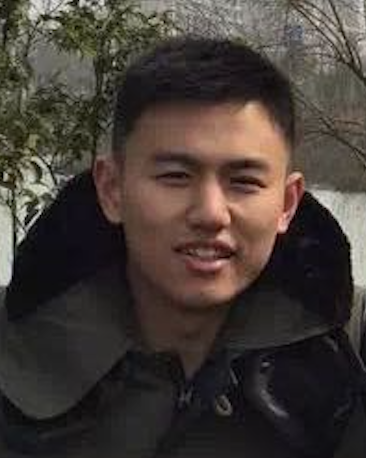
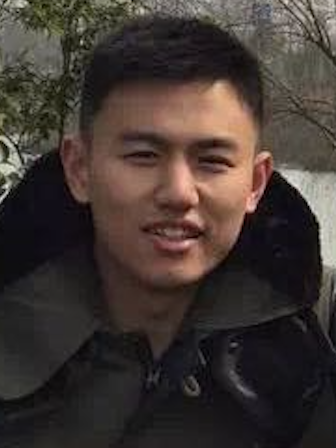
1

diff --git a/index.html b/index.html
@@ -99,7 +99,7 @@ h6 {
 
 
 <p>
-<img src="./background/paper_pic.png" width="210" height="265" align="left" hspace="8"/>
+<img src="./background/paper_pic.png" width="215" height="265" align="left" hspace="8"/>
 I'm a second-year Ph.D. candidate in the <I>Information and Decision Systems</I> track under the advisement of <a href="https://www.seas.upenn.edu/directory/profile.php?ID=248" style="text-decoration:none"><font color="#006CFF">Shirin Saeedi-Bidokhti</font></a> at the University of Pennsylvania in the <a href="https://www.ese.upenn.edu/" style="text-decoration:none"><font color="#006CFF">Department of Electrical and Systems Engineering</font></a>. I've received a B.Sc degree in <I>Mathematics and Statistics</I> from Central South University in 2015, and an M.A. degree in <I>Applied Mathematics and Computational Science</I> from University of Pennsylvania in 2018. <br/></br>
 My <a href="./background/cv_cxr.pdf" style="text-decoration:none"><font color="#006CFF">CV</font></a> is here.<br/><br/>
 Email: xingranc@seas.upenn.edu <br/><br/>
